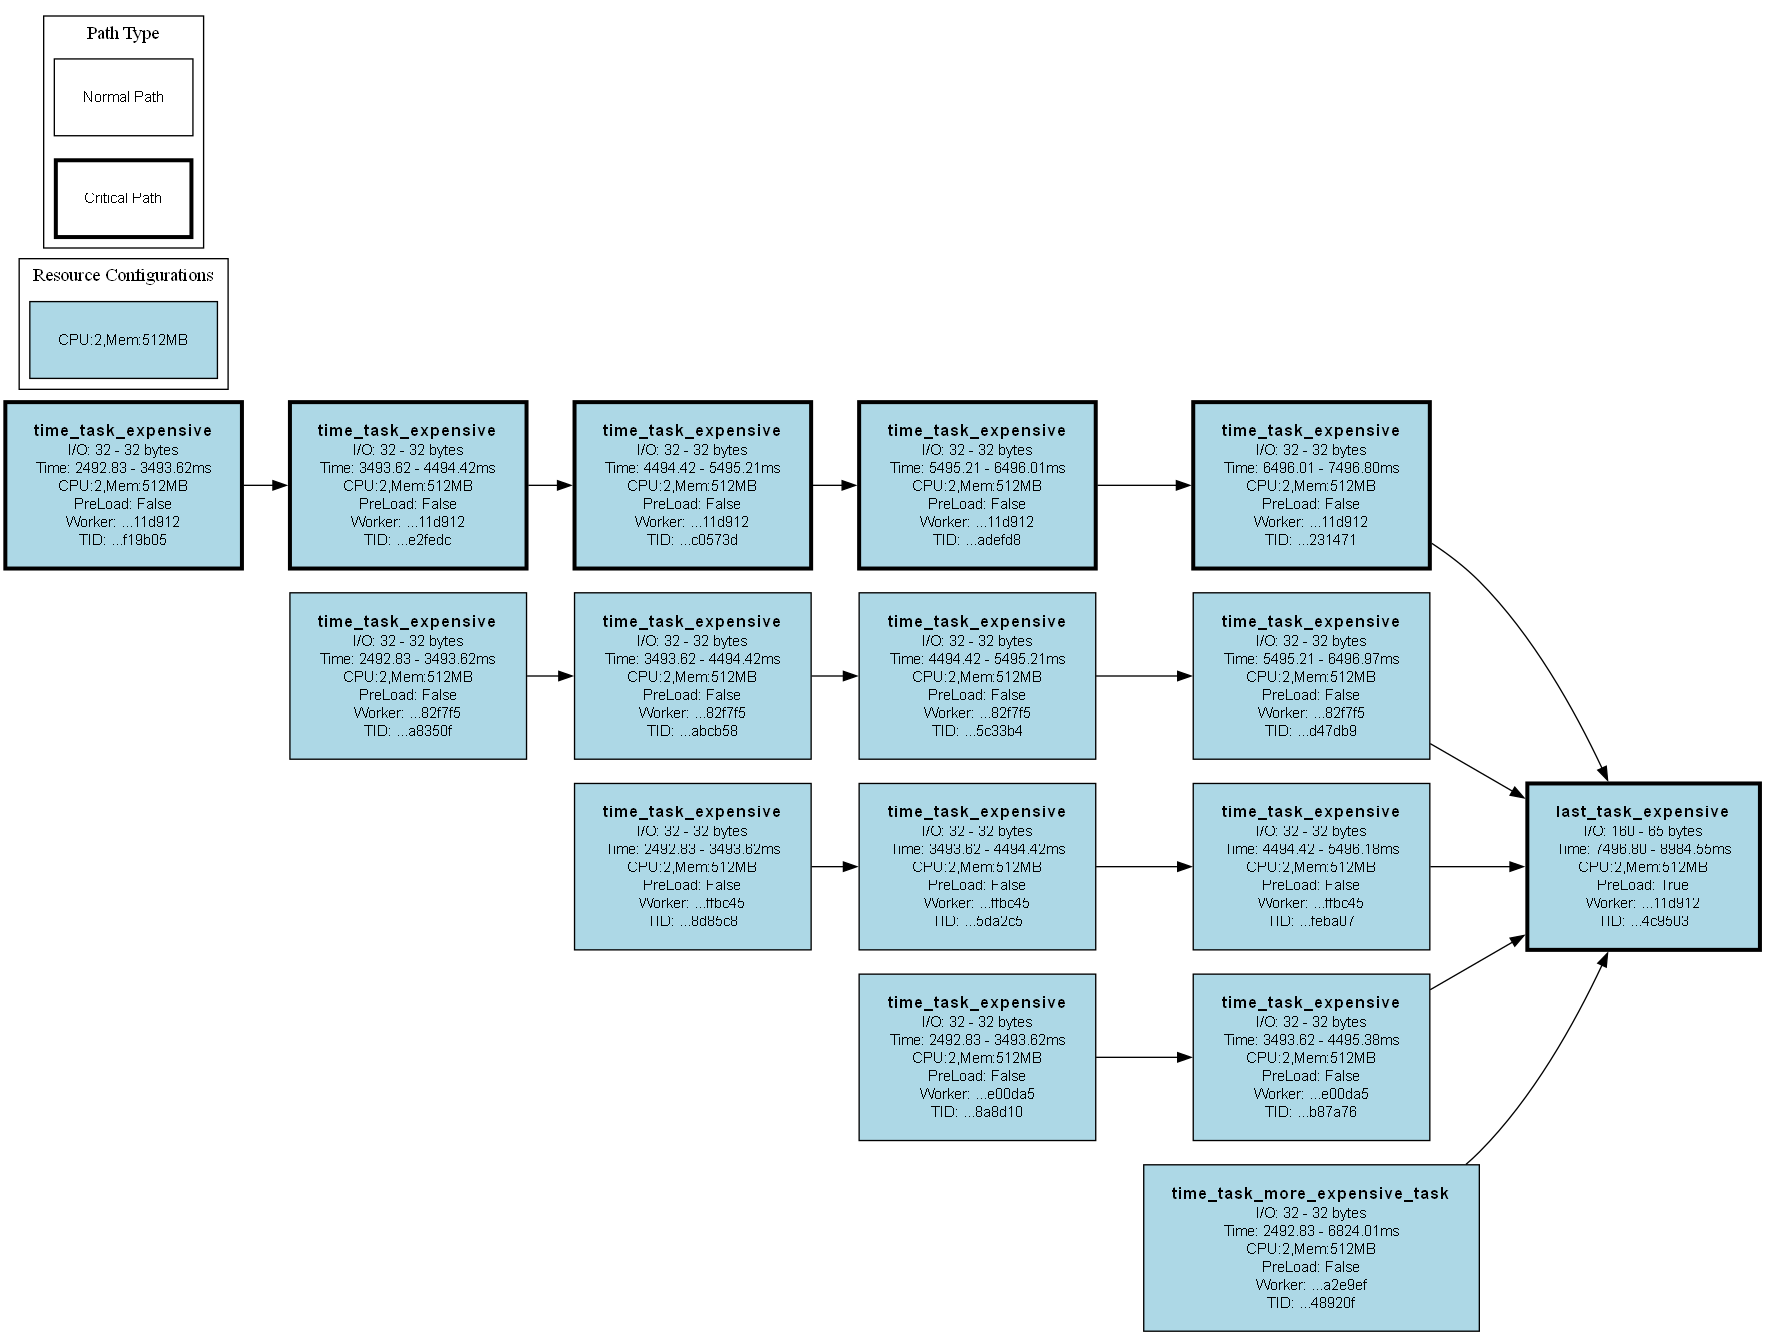
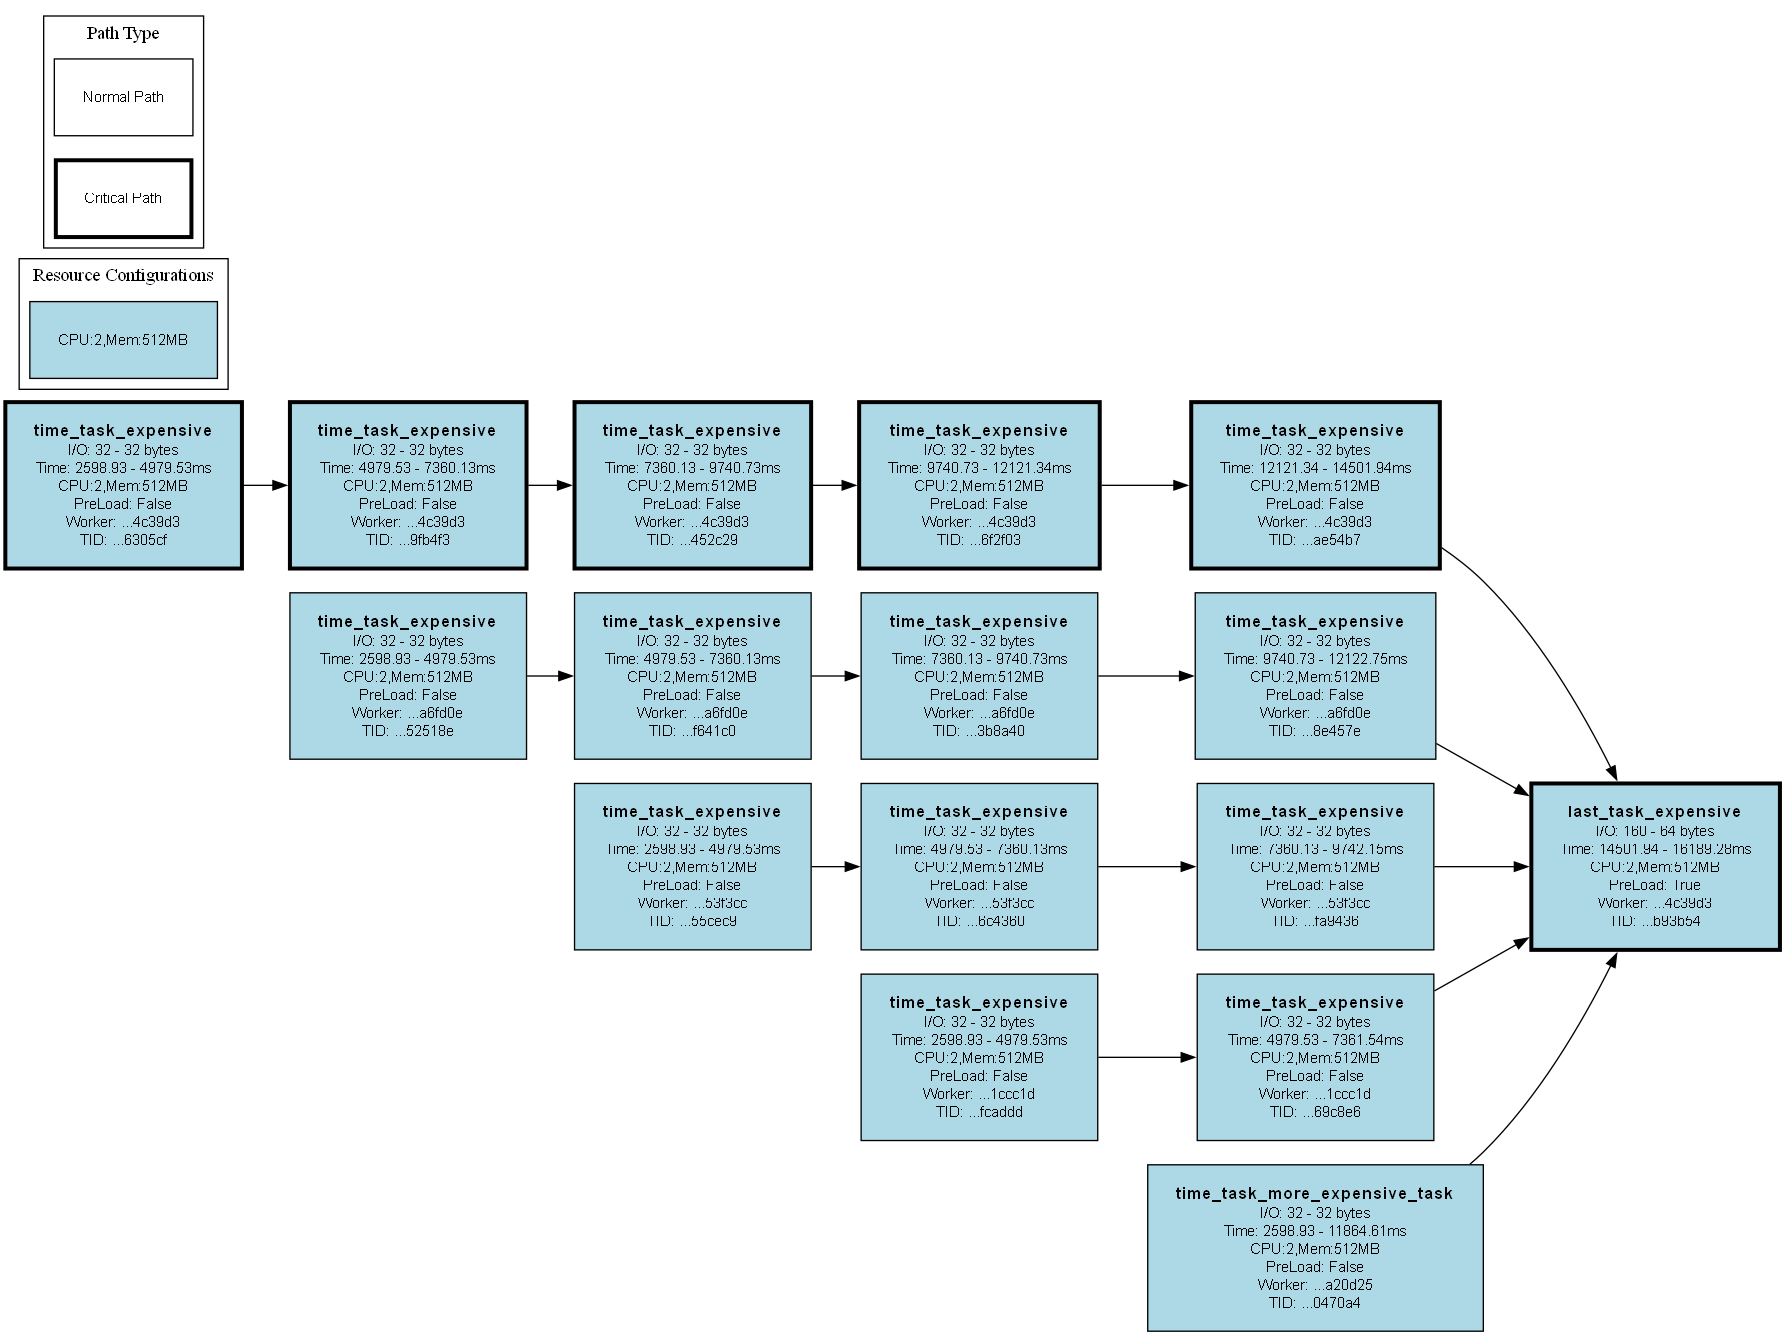
change docker gateway to allways simulate cold starts so that predictions aren't messed up while experimenting

diff --git a/src/docker_workers_gateway/container_pool_executor.py b/src/docker_workers_gateway/container_pool_executor.py
@@ -12,6 +12,8 @@ import uuid
 from src.utils.logger import create_logger
 logger = create_logger(__name__)
 
+ALLOW_CONTAINER_REUSAGE = False
+
 @dataclass
 class Container:
     id: str
@@ -112,8 +114,11 @@ class ContainerPoolExecutor:
             sys.exit(0) # ! for easier debugging
         
         with self.lock: 
-            # to avoid killing container after it exits (if it takes longer than the container idle timeout)
-            self.containers[container_id].last_active_time = time.time()
+            if not ALLOW_CONTAINER_REUSAGE:
+                self._remove_container(container_id)
+            else:
+                # to avoid killing container after it exits (if it takes longer than the container idle timeout)
+                self.containers[container_id].last_active_time = time.time()
             
         return exit_code
 
@@ -203,7 +208,7 @@ class ContainerPoolExecutor:
                     if not self.containers[cid].is_busy
                 ]
                 
-                if available_containers:
+                if available_containers and ALLOW_CONTAINER_REUSAGE:
                     container_id = available_containers[0]
                     self.containers[container_id].is_busy = True
                     self.containers[container_id].last_active_time = time.time()  # Update last active time

diff --git a/TODO.md b/TODO.md
@@ -17,6 +17,10 @@
         - todo: compare prediction errors accross diff. planners
         - UPDATE: bar chart comparing [predicted_vs_real] for diff [planners]
 
+- [NEW_METRIC]: time downloading Python libs/dependencies (only needed on cold starts?)
+    store which libraries were installed **per worker startup** and how long each took
+        `dict[lib_name, time_ms]`
+
 - Find a way to make all invocations be cold starts (don't reuse containers)
     Change the docker invocation (use a flag `ALLOW_REUSING_CONTAINERS=False`)
     re-run experiments
